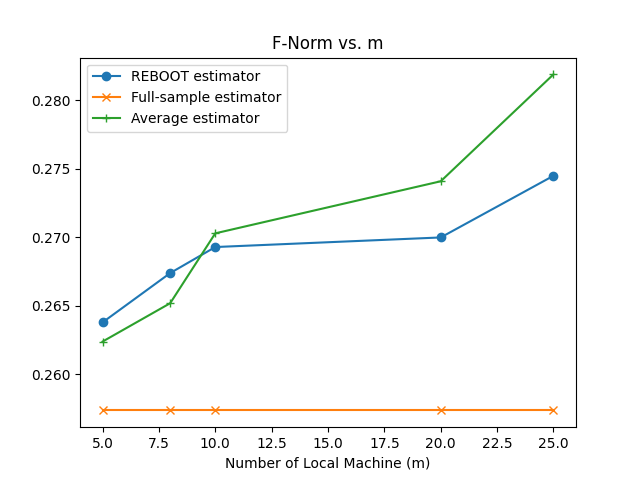
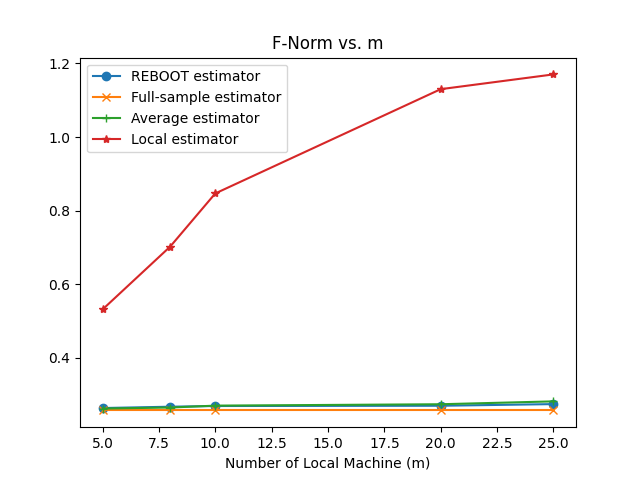
local est plot Rasch

diff --git a/plots/Rasch_plot/Rasch_plot.py b/plots/Rasch_plot/Rasch_plot.py
@@ -6,10 +6,10 @@ local_d = np.array([0.5316, 0.7024, 0.8468, 1.1301, 1.1702])
 avg_d = np.array([0.2624, 0.2652, 0.2703, 0.2741, 0.2819])
 reboot_d = np.array([0.2638, 0.2674, 0.2693, 0.2700, 0.2745])
 cmirt_d = np.array([0.257377] * 5)
-# plt.plot(K, local_d, marker='*', label="Local estimator")
 plt.plot(K, reboot_d, marker='o', label="REBOOT estimator")
 plt.plot(K, cmirt_d, marker='x', label="Full-sample estimator")
 plt.plot(K, avg_d, marker='+', label="Average estimator")
+plt.plot(K, local_d, marker='*', label="Local estimator")
 plt.legend()
 plt.xlabel("Number of Local Machine (m)")
 plt.title("F-Norm vs. m")
